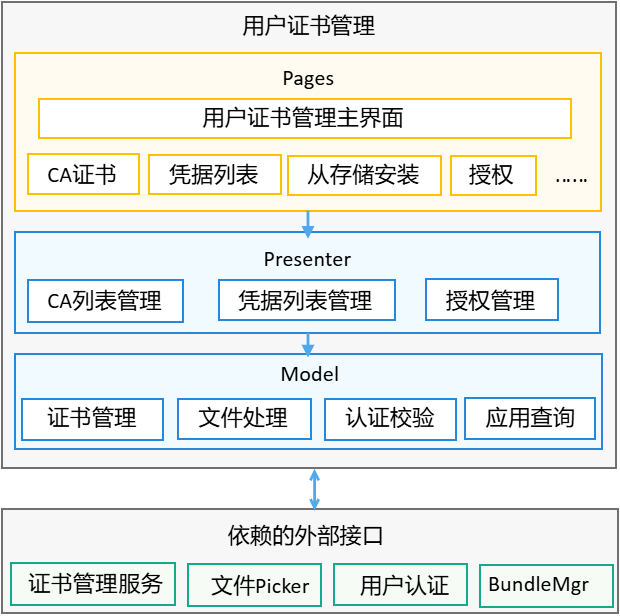
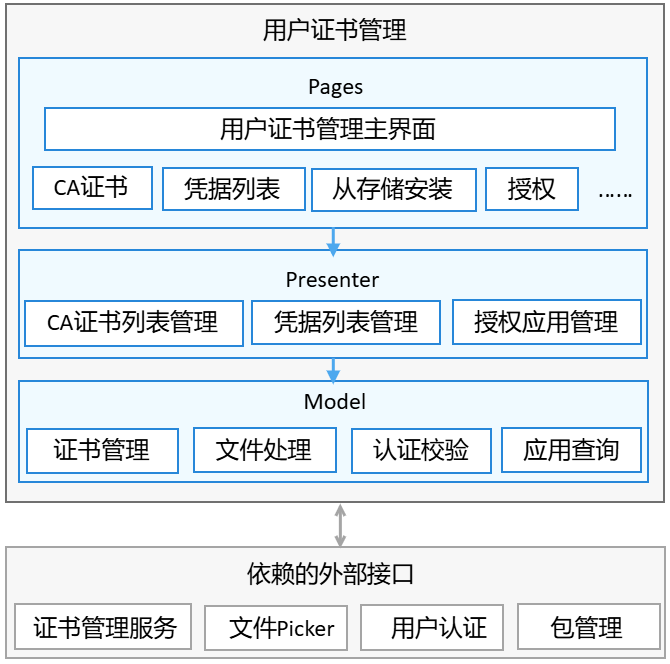
README刷新

Changed region(s): [[0.0, 0.0, 1.0, 1.0]]

diff --git a/README.md b/README.md
@@ -1,14 +1,8 @@
 # 用户证书管理部件
 
-  - [简介](#简介)
-  - [目录](#目录)
-  - [编译构建](#编译构建)
-  - [说明](#说明)
-  - [相关仓](#相关仓)
-
 ## 简介
 
-用户证书管理是OpenHarmony中预置的系统应用，向用户提供CA证书和凭据的管理功能，主要的功能包含：
+用户证书管理是OpenHarmony中预置的系统应用，向用户提供授权证书（Certificate Authority，以下简称CA证书）和凭据的管理功能，主要的功能包含：
 
 1、系统预置CA证书的查看；
 
@@ -22,34 +16,68 @@
 
 <div align=center>
 <img src=doc/image/image-20220727141455437.png width=80% align=center/>
-
 </div>
+
+用户证书管理应用与外部模块的交互包括：
+
+* 证书管理服务：调用证书管理服务接口，进行系统CA证书、用户CA证书、系统证书凭据和用户证书凭据的管理；
+* 文件Picker：在使用用户证书管理应用进行CA证书、凭据安装时，通过文件picker选择设备存储中包含的证书、凭据进行安装；
+* 用户认证：在使用用户证书管理应用进行CA证书安装时，如果用户设置了锁屏密码，则需要调用用户认证模块对锁屏密码进行校验；
+* 包管理：调用包管理相关接口，获取用户证书凭据授权的应用名称及应用图标，以展示在用户证书管理应用界面中。
 
 ## 目录
 
 ```
-├── BUILD.gn                                # 部件构建文件
-├── build-profile.json5                     # 编译构建文件
-├── bundle.json                             # 部件构建入口
-├── certmanager                             # 业务证书管理模块目录
+├── BUILD.gn                                                   # 部件构建文件
+├── build-profile.json5                                        # 编译构建文件
+├── bundle.json                                                # 部件构建入口
+├── certmanager                                                # 业务证书管理模块目录
     └── src
         └── main
-            ├── ets							# 代码目录
-            │   ├── Application				# AbilityStage类实现
-            │   ├── MainAbility				# Ability类实现
-            │   ├── model					# model层功能类实现
-            │   ├── pages					# 页面展示实现
-            │   ├── presenter				# 页面presenter层功能类实现
-            └── resources					# 资源文件目录
-├── entry									# entry模块目录
-├── hvigor                                  # 编译构建文件
-├── hvigorfile.js                           # 编译构建文件
-├── hvigorw                                 # 编译构建文件
-├── LICENSE                                 # 许可文件
-├── OAT.xml
-├── oh-package.json5                        # 编译构建文件
-├── README.md
-└── signature                               # 签名profile文件
+            ├── ets                                            # 代码目录
+            │   ├── Application                                # AbilityStage类实现
+            │   ├── MainAbility                                # Ability类实现
+            │   ├── model                                      # 依赖的外部接口实现
+            │   │   ├── BundleModel.ets                        # 获取应用别名及图标
+            │   │   ├── CertManagerVo                          # 内部使用的结构体
+            │   │   ├── CertMangerModel.ets                    # 调用证书管理服务的接口实现
+            │   │   ├── CheckUserAuthModel.ets                 # 认证校验
+            │   │   ├── FileIoModel.ets                        # 文件读取
+            │   │   └── PreventScreenshotsModel.ets            # 输入密码时防录屏
+            │   ├── pages                                      # 页面实现
+            │   │   ├── cerEvidenceFa.ets                      # 凭据页面
+            │   │   ├── certInstallFromStorage.ets             # 安装证书、凭据页面
+            │   │   ├── certManagerFa.ets                      # 用户证书管理主页面
+            │   │   ├── certPwdInput.ets                       # 输入密码页面
+            │   │   ├── detail                                 # 详情目录
+            │   │   │   ├── AuthorizedAppManagementPage.ets    # 被授权的应用列表详情界面
+            │   │   │   ├── CaSystemDetailPage.ets             # 系统CA详情界面
+            │   │   │   ├── CaUserDetailPage.ets               # 用户CA详情界面
+            │   │   │   ├── CredSystemDetailPage.ets           # 系统凭据性情界面
+            │   │   │   └── CredUserDetailPage.ets             # 用户凭据详情界面
+            │   │   ├── picker                                 # 半模态界面
+            │   │   │   ├── CaCertPage.ets                     # CA证书半模态页面
+            │   │   │   ├── CertManagerSheetFa.ets             # 半模态页面入口
+            │   │   │   ├── CredListPage.ets                   # 凭据半模态页面
+            │   │   │   └── InstallPage.ets                    # 安装证书、凭据半模态页面
+            │   │   ├── requestAuth.ets                        # 应用请求授权界面
+            │   │   └── trustedCa.ets                          # CA证书界面
+            │   └── presenter                                  # 页面管理、CA和凭据列表管理实现
+            │       ├── CmAppCredAuthPresenter.ets             # 授权应用管理
+            │       ├── CmFaPresenter.ets                      # 主页面管理
+            │       ├── CmInstallPresenter.ets                 # 安装页面管理
+            │       ├── CmShowAppCredPresenter.ets             # 用户凭据列表管理
+            │       ├── CmShowSysCaPresenter.ets               # 系统凭据列表管理
+            │       ├── CmShowSysCredPresenter.ets             # 系统CA列表管理
+            │       └── CmShowUserCaPresenter.ets              # 用户CA列表管理
+            └── resources                                      # 资源文件目录
+├── entry                                                      # entry模块目录
+├── hvigor                                                     # 编译构建文件
+├── hvigorfile.js                                              # 编译构建文件
+├── hvigorw                                                    # 编译构建文件
+├── LICENSE                                                    # 许可文件
+├── oh-package.json5                                           # 编译构建文件
+└── signature                                                  # 签名profile文件
 ```
 
 ## 编译构建
@@ -70,6 +98,15 @@
 >
 > --build-target: 编译的部件名称。
 
+**应用安装**
+
+编译完成后，将会在out/rk3568/obj/applications/standard/user_certificate_manager/user_cert_manager目录下生成CertificateManager.hap文件，将该文件拷贝到本地磁盘中（例如D:\），通过以下命令将应用安装到设备上：
+
+```shell
+D:\>hdc install D:\CertificateManager.hap
+[Info]App install path:D:\CertificateManager.hap, queuesize:0, msg:install bundle successfully.
+AppMod finish
+```
 
 ## 说明
 
@@ -77,9 +114,15 @@
 
 不涉及。
 
-### 使用说明
+### 使用场景
 
-不涉及。
+通过设置->隐私->证书与凭据，进入用户证书管理应用界面。使用场景包括如下几个方面：
+
+1、WLAN和VPN系统服务在进行连接配置时，可以调用证书管理服务接口安装、读取和使用系统证书凭据。
+
+2、应用开发者在校验HTTPS服务器证书时，需要使用系统预置的CA证书或用户CA证书。
+
+3、应用开发者在对Email邮件或文档进行签名时，可以使用用户证书凭据进行签名。
 
 
 ## 相关仓
